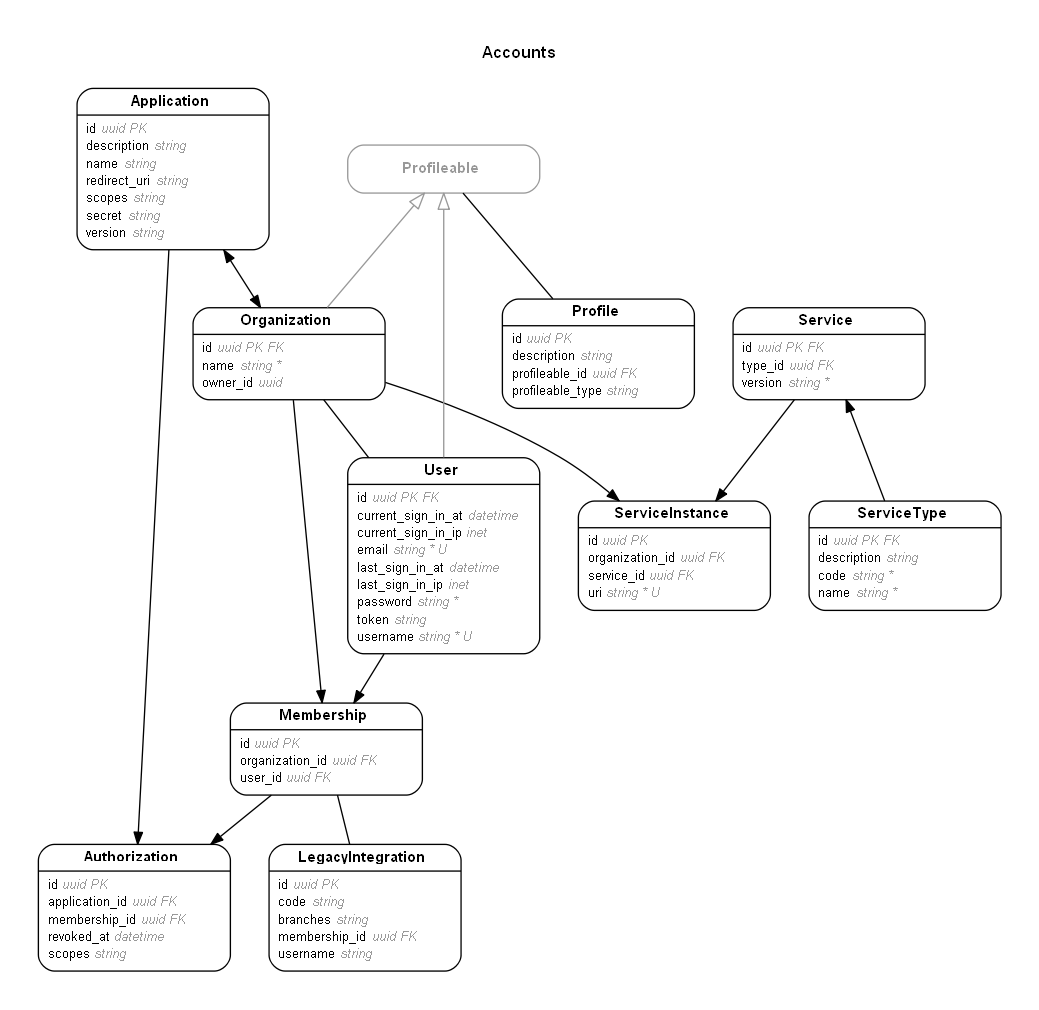
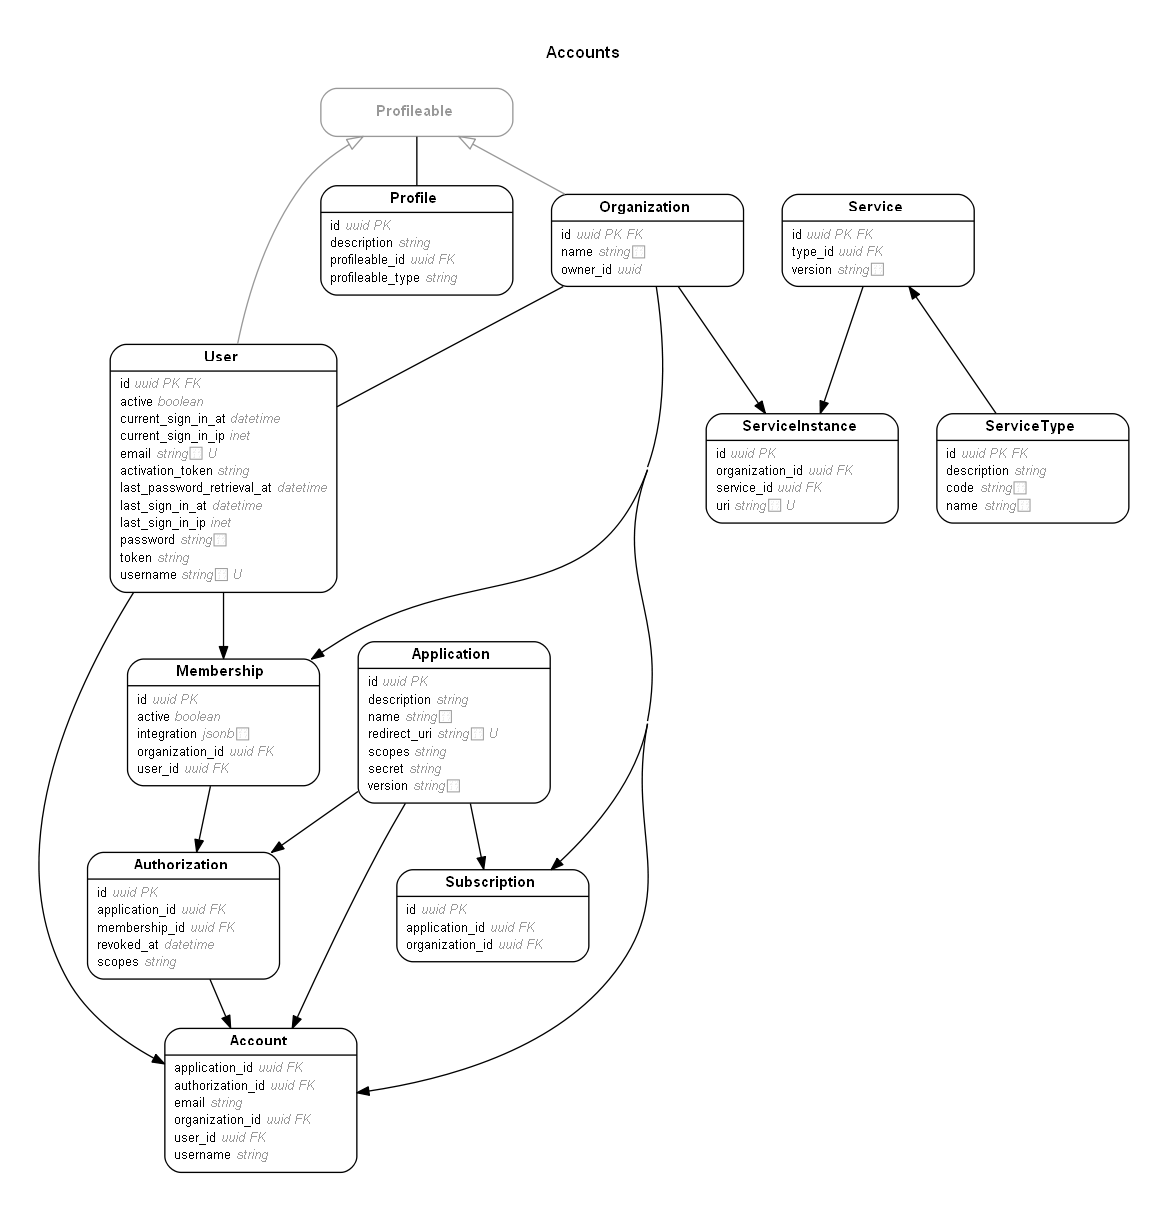
update erd

diff --git a/app/models/application.rb b/app/models/application.rb
@@ -1,7 +1,9 @@
 class Application < ActiveRecord::Base
   before_create :set_secret
 
-  has_and_belongs_to_many :organizations,  :join_table => :subscriptions
+  # has_and_belongs_to_many :organizations,  :join_table => :subscriptions
+  has_many :subscriptions
+  has_many :organizations, through: :subscriptions
   has_many :authorizations
 
   validates :name, :version, :redirect_uri, presence: true

diff --git a/app/models/account.rb b/app/models/account.rb
@@ -1,4 +1,8 @@
 class Account < ActiveRecord::Base
 
+  belongs_to :user
+  belongs_to :organization
+  belongs_to :application
+  belongs_to :authorization
 
 end

diff --git a/app/models/subscription.rb b/app/models/subscription.rb
@@ -1,0 +1,6 @@
+class Subscription < ActiveRecord::Base
+
+  belongs_to :application
+  belongs_to :organization
+
+end
